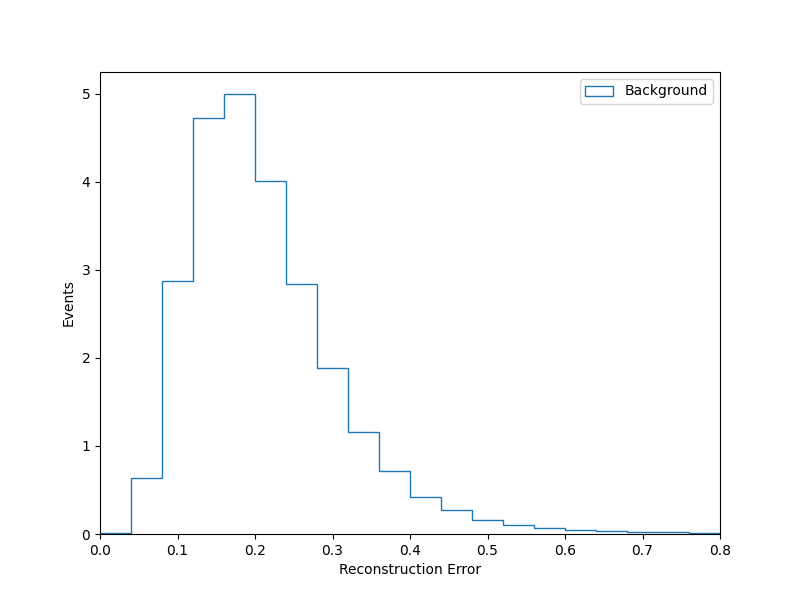
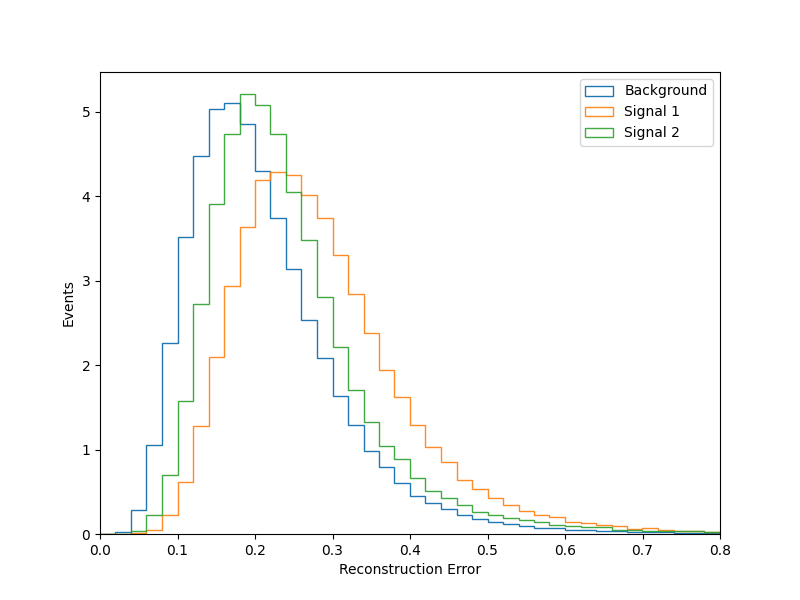
Testing with standard scaling and 21, 14 layer dimensions

diff --git a/test.py b/test.py
@@ -151,12 +151,12 @@ loss_test_total = loss_test.mean(axis=1)
 
 
 # Plot Total Reconstruction Error
-nbins = 20
+nbins = 40
 fig, axes = plt.subplots(figsize=(8,6))
-axes.hist([loss_test_total], nbins, range=(0, 0.8), density=1, histtype='step', label=['Background'], stacked=True, alpha=1)
-# axes.hist([loss_bkg_total], nbins, range=(0, 0.8), density=1, histtype='step', label=['Background'], stacked=True, alpha=1)
-# axes.hist([loss_sig1_total], nbins, range=(0, 0.8), density=1, histtype='step', label=['Signal 1'], stacked=True, alpha=0.9)
-# axes.hist([loss_sig2_total], nbins, range=(0, 0.8), density=1, histtype='step', label=['Signal 2'], stacked=True, alpha=0.9)
+# axes.hist([loss_test_total], nbins, range=(0, 0.8), density=1, histtype='step', stacked=True, alpha=1)
+axes.hist([loss_bkg_total], nbins, range=(0, 0.8), density=1, histtype='step', label=['Background'], stacked=True, alpha=1)
+axes.hist([loss_sig1_total], nbins, range=(0, 0.8), density=1, histtype='step', label=['Signal 1'], stacked=True, alpha=0.9)
+axes.hist([loss_sig2_total], nbins, range=(0, 0.8), density=1, histtype='step', label=['Signal 2'], stacked=True, alpha=0.9)
 axes.set_xlabel(r"Reconstruction Error")
 axes.set_ylabel("Events")
 axes.set_xlim(0, 0.8)
@@ -191,7 +191,7 @@ roc_auc3 = auc(fpr3, tpr3)
 
 # Plot ROC curve
 fig, axes = plt.subplots(figsize=(8,6))
-axes.plot(fpr3, tpr3, lw=2, label='Signal 1 ROC curve (AUC = %0.2f)' % roc_auc3)
+axes.plot(fpr3, tpr3, lw=2, label='ROC curve (AUC = %0.2f)' % roc_auc3)
 # axes.plot(fpr1, tpr1, lw=2, label='Signal 1 ROC curve (AUC = %0.2f)' % roc_auc1)
 # axes.plot(fpr2, tpr2, lw=2, label='Signal 2 ROC curve (AUC = %0.2f)' % roc_auc2)
 axes.plot([0, 1], [0, 1], lw=2, linestyle='--')
